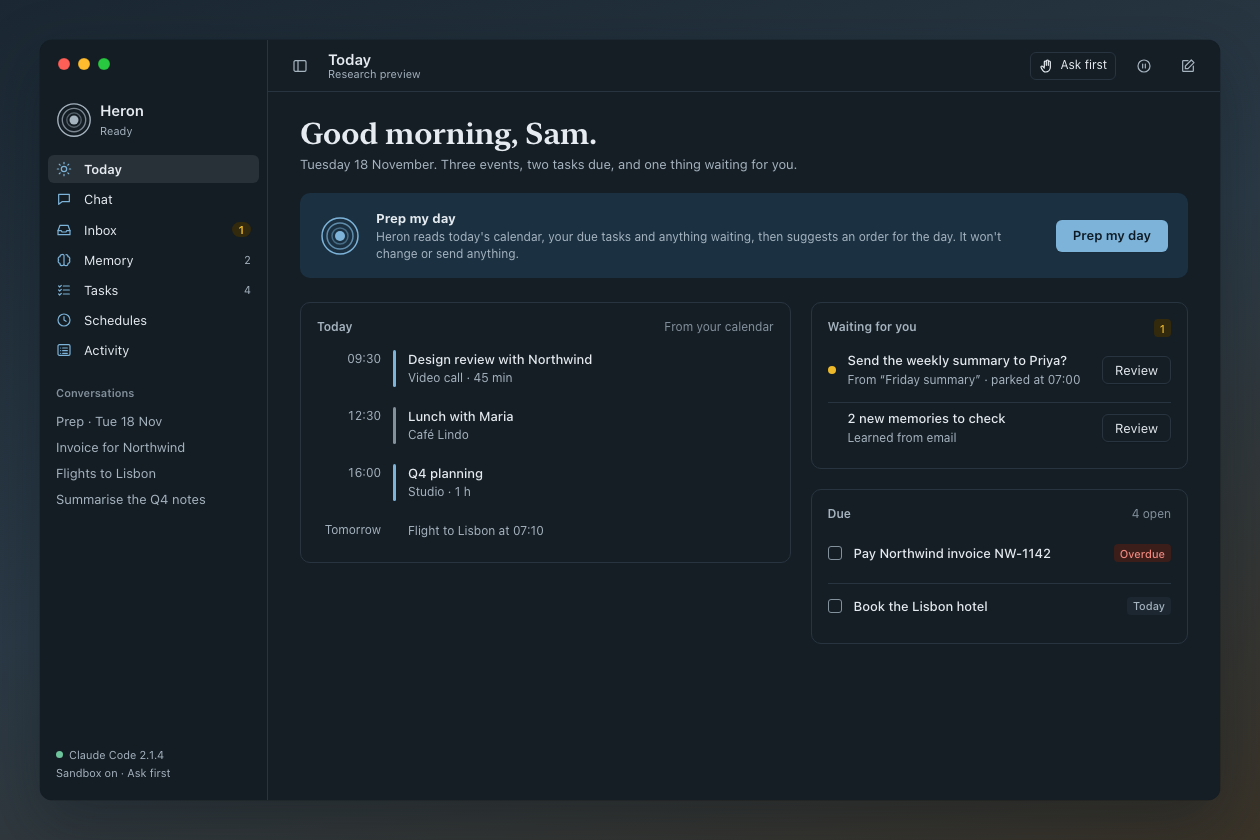
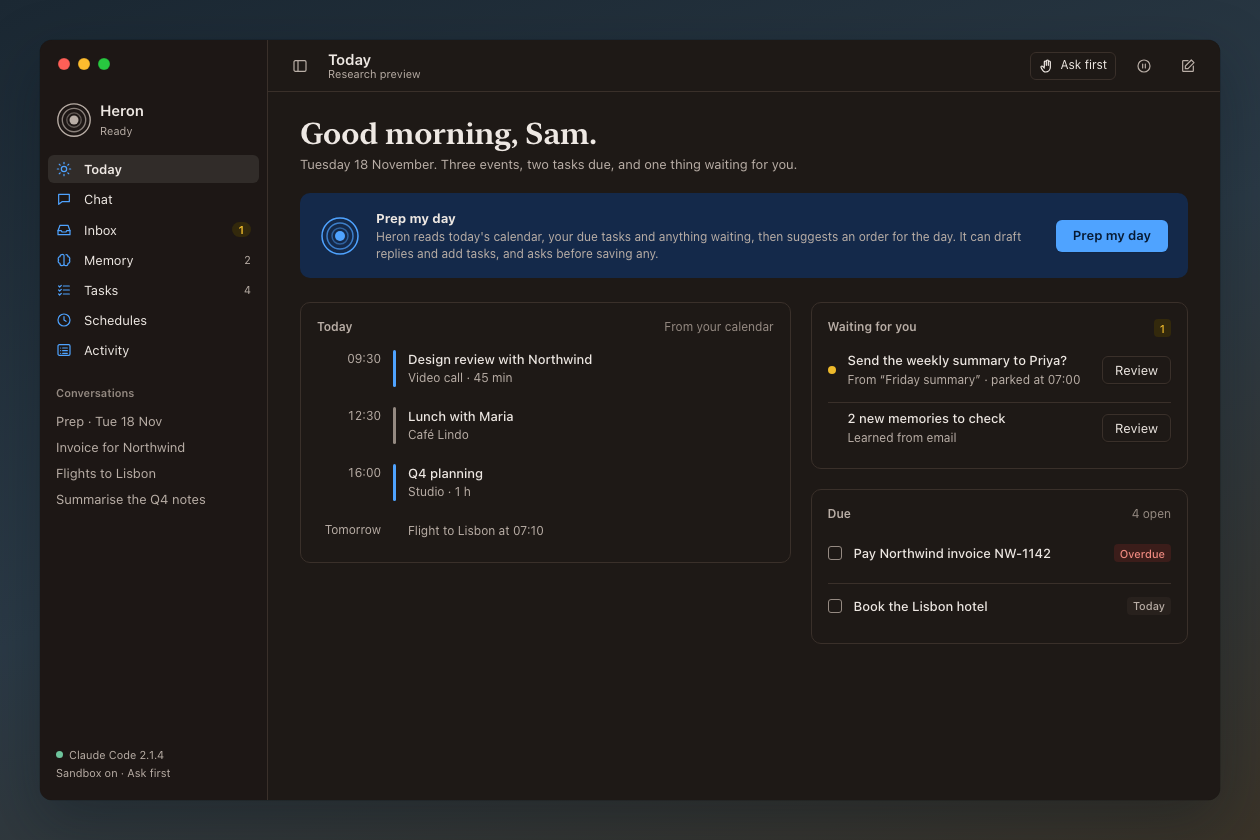
docs(design): record the owner's choices for the heron mac app
Dusk is the default theme and the system accent the default accent,
with slate as the fallback. Prep my day may draft replies and add tasks
behind approvals. Inbox, themes, avatar, menu bar extra and the sandbox
card follow the recommendations. Mockups and screenshots updated.

diff --git a/docs/designs/heron-mac-visual/tokens.css b/docs/designs/heron-mac-visual/tokens.css
@@ -1,19 +1,19 @@
 /* Generated by gen_tokens.py from tokens.json. Do not edit by hand. */
-:root{--window:#F3F6F8;--sidebar:#E9EEF2;--surface:#FFFFFF;--raised:#F0F4F7;--hairline:#D9E1E7;--ink:#15202A;--ink2:#465663;--ink3:#5C6975;--waiting:#7A5500;--waitingSoft:#FBEFCF;--waitingMark:#C98F00;--outside:#5E4B8B;--outsideSoft:#ECE7F5;--danger:#A8261D;--dangerSoft:#FBE3E0;--ok:#24704F;--okSoft:#DFF1E8;}
-@media (prefers-color-scheme: dark){:root:not([data-theme="light"]){--window:#0F161C;--sidebar:#131C23;--surface:#151E25;--raised:#1C2731;--hairline:#283540;--ink:#E5EBF0;--ink2:#A6B4C0;--ink3:#83919D;--waiting:#EDB92B;--waitingSoft:#33290C;--waitingMark:#EDB92B;--outside:#BBA8E6;--outsideSoft:#271F38;--danger:#F08A80;--dangerSoft:#3B1D1A;--ok:#6EC49C;--okSoft:#15301F;color-scheme:dark}}
-:root[data-theme="dark"]{--window:#0F161C;--sidebar:#131C23;--surface:#151E25;--raised:#1C2731;--hairline:#283540;--ink:#E5EBF0;--ink2:#A6B4C0;--ink3:#83919D;--waiting:#EDB92B;--waitingSoft:#33290C;--waitingMark:#EDB92B;--outside:#BBA8E6;--outsideSoft:#271F38;--danger:#F08A80;--dangerSoft:#3B1D1A;--ok:#6EC49C;--okSoft:#15301F;color-scheme:dark}
-:root[data-palette="dusk"]{--window:#F6F3F1;--sidebar:#EEE9E5;--surface:#FFFFFF;--raised:#F4F0EC;--hairline:#E2DBD5;--ink:#221C19;--ink2:#58504A;--ink3:#6A615B;--waiting:#7A5500;--waitingSoft:#FBEFCF;--waitingMark:#C98F00;--outside:#5E4B8B;--outsideSoft:#ECE7F5;--danger:#A8261D;--dangerSoft:#FBE3E0;--ok:#24704F;--okSoft:#DFF1E8;}
-@media (prefers-color-scheme: dark){:root[data-palette="dusk"]:not([data-theme="light"]){--window:#171311;--sidebar:#1C1714;--surface:#1E1916;--raised:#28211D;--hairline:#3A302A;--ink:#EEE8E3;--ink2:#B9AEA6;--ink3:#958A82;--waiting:#EDB92B;--waitingSoft:#33290C;--waitingMark:#EDB92B;--outside:#BBA8E6;--outsideSoft:#271F38;--danger:#F08A80;--dangerSoft:#3B1D1A;--ok:#6EC49C;--okSoft:#15301F;color-scheme:dark}}
-:root[data-palette="dusk"][data-theme="dark"]{--window:#171311;--sidebar:#1C1714;--surface:#1E1916;--raised:#28211D;--hairline:#3A302A;--ink:#EEE8E3;--ink2:#B9AEA6;--ink3:#958A82;--waiting:#EDB92B;--waitingSoft:#33290C;--waitingMark:#EDB92B;--outside:#BBA8E6;--outsideSoft:#271F38;--danger:#F08A80;--dangerSoft:#3B1D1A;--ok:#6EC49C;--okSoft:#15301F;color-scheme:dark}
+:root{--window:#F6F3F1;--sidebar:#EEE9E5;--surface:#FFFFFF;--raised:#F4F0EC;--hairline:#E2DBD5;--ink:#221C19;--ink2:#58504A;--ink3:#6A615B;--waiting:#7A5500;--waitingSoft:#FBEFCF;--waitingMark:#C98F00;--outside:#5E4B8B;--outsideSoft:#ECE7F5;--danger:#A8261D;--dangerSoft:#FBE3E0;--ok:#24704F;--okSoft:#DFF1E8;}
+@media (prefers-color-scheme: dark){:root:not([data-theme="light"]){--window:#171311;--sidebar:#1C1714;--surface:#1E1916;--raised:#28211D;--hairline:#3A302A;--ink:#EEE8E3;--ink2:#B9AEA6;--ink3:#958A82;--waiting:#EDB92B;--waitingSoft:#33290C;--waitingMark:#EDB92B;--outside:#BBA8E6;--outsideSoft:#271F38;--danger:#F08A80;--dangerSoft:#3B1D1A;--ok:#6EC49C;--okSoft:#15301F;color-scheme:dark}}
+:root[data-theme="dark"]{--window:#171311;--sidebar:#1C1714;--surface:#1E1916;--raised:#28211D;--hairline:#3A302A;--ink:#EEE8E3;--ink2:#B9AEA6;--ink3:#958A82;--waiting:#EDB92B;--waitingSoft:#33290C;--waitingMark:#EDB92B;--outside:#BBA8E6;--outsideSoft:#271F38;--danger:#F08A80;--dangerSoft:#3B1D1A;--ok:#6EC49C;--okSoft:#15301F;color-scheme:dark}
+:root[data-palette="shore"]{--window:#F3F6F8;--sidebar:#E9EEF2;--surface:#FFFFFF;--raised:#F0F4F7;--hairline:#D9E1E7;--ink:#15202A;--ink2:#465663;--ink3:#5C6975;--waiting:#7A5500;--waitingSoft:#FBEFCF;--waitingMark:#C98F00;--outside:#5E4B8B;--outsideSoft:#ECE7F5;--danger:#A8261D;--dangerSoft:#FBE3E0;--ok:#24704F;--okSoft:#DFF1E8;}
+@media (prefers-color-scheme: dark){:root[data-palette="shore"]:not([data-theme="light"]){--window:#0F161C;--sidebar:#131C23;--surface:#151E25;--raised:#1C2731;--hairline:#283540;--ink:#E5EBF0;--ink2:#A6B4C0;--ink3:#83919D;--waiting:#EDB92B;--waitingSoft:#33290C;--waitingMark:#EDB92B;--outside:#BBA8E6;--outsideSoft:#271F38;--danger:#F08A80;--dangerSoft:#3B1D1A;--ok:#6EC49C;--okSoft:#15301F;color-scheme:dark}}
+:root[data-palette="shore"][data-theme="dark"]{--window:#0F161C;--sidebar:#131C23;--surface:#151E25;--raised:#1C2731;--hairline:#283540;--ink:#E5EBF0;--ink2:#A6B4C0;--ink3:#83919D;--waiting:#EDB92B;--waitingSoft:#33290C;--waitingMark:#EDB92B;--outside:#BBA8E6;--outsideSoft:#271F38;--danger:#F08A80;--dangerSoft:#3B1D1A;--ok:#6EC49C;--okSoft:#15301F;color-scheme:dark}
 :root[data-palette="graphite"]{--window:#F5F5F5;--sidebar:#ECECEC;--surface:#FFFFFF;--raised:#F2F2F2;--hairline:#DDDDDD;--ink:#1D1D1F;--ink2:#4F4F55;--ink3:#636368;--waiting:#7A5500;--waitingSoft:#FBEFCF;--waitingMark:#C98F00;--outside:#5E4B8B;--outsideSoft:#ECE7F5;--danger:#A8261D;--dangerSoft:#FBE3E0;--ok:#24704F;--okSoft:#DFF1E8;}
 @media (prefers-color-scheme: dark){:root[data-palette="graphite"]:not([data-theme="light"]){--window:#161617;--sidebar:#1C1C1E;--surface:#1E1E20;--raised:#2A2A2D;--hairline:#38383B;--ink:#ECECEE;--ink2:#AEAEB2;--ink3:#98989D;--waiting:#EDB92B;--waitingSoft:#33290C;--waitingMark:#EDB92B;--outside:#BBA8E6;--outsideSoft:#271F38;--danger:#F08A80;--dangerSoft:#3B1D1A;--ok:#6EC49C;--okSoft:#15301F;color-scheme:dark}}
 :root[data-palette="graphite"][data-theme="dark"]{--window:#161617;--sidebar:#1C1C1E;--surface:#1E1E20;--raised:#2A2A2D;--hairline:#38383B;--ink:#ECECEE;--ink2:#AEAEB2;--ink3:#98989D;--waiting:#EDB92B;--waitingSoft:#33290C;--waitingMark:#EDB92B;--outside:#BBA8E6;--outsideSoft:#271F38;--danger:#F08A80;--dangerSoft:#3B1D1A;--ok:#6EC49C;--okSoft:#15301F;color-scheme:dark}
-:root[data-accent="system"]{--accent:#0A64D8;--accentSoft:#E0ECFB;--onAccent:#FFFFFF;}
-@media (prefers-color-scheme: dark){:root[data-accent="system"]:not([data-theme="light"]){--accent:#4FA3FF;--accentSoft:#14294A;--onAccent:#071A33;}}
-:root[data-accent="system"][data-theme="dark"]{--accent:#4FA3FF;--accentSoft:#14294A;--onAccent:#071A33;}
-:root{--accent:#2F6690;--accentSoft:#E2ECF4;--onAccent:#FFFFFF;}
-@media (prefers-color-scheme: dark){:root:not([data-theme="light"]){--accent:#7DB3D8;--accentSoft:#1B3142;--onAccent:#0D1B26;}}
-:root[data-theme="dark"]{--accent:#7DB3D8;--accentSoft:#1B3142;--onAccent:#0D1B26;}
+:root{--accent:#0A64D8;--accentSoft:#E0ECFB;--onAccent:#FFFFFF;}
+@media (prefers-color-scheme: dark){:root:not([data-theme="light"]){--accent:#4FA3FF;--accentSoft:#14294A;--onAccent:#071A33;}}
+:root[data-theme="dark"]{--accent:#4FA3FF;--accentSoft:#14294A;--onAccent:#071A33;}
+:root[data-accent="slate"]{--accent:#2F6690;--accentSoft:#E2ECF4;--onAccent:#FFFFFF;}
+@media (prefers-color-scheme: dark){:root[data-accent="slate"]:not([data-theme="light"]){--accent:#7DB3D8;--accentSoft:#1B3142;--onAccent:#0D1B26;}}
+:root[data-accent="slate"][data-theme="dark"]{--accent:#7DB3D8;--accentSoft:#1B3142;--onAccent:#0D1B26;}
 :root[data-accent="lagoon"]{--accent:#1D6B6B;--accentSoft:#DDEFEE;--onAccent:#FFFFFF;}
 @media (prefers-color-scheme: dark){:root[data-accent="lagoon"]:not([data-theme="light"]){--accent:#6CC3BE;--accentSoft:#16302F;--onAccent:#0A1D1C;}}
 :root[data-accent="lagoon"][data-theme="dark"]{--accent:#6CC3BE;--accentSoft:#16302F;--onAccent:#0A1D1C;}

diff --git a/docs/designs/heron-mac-visual/avatar.html b/docs/designs/heron-mac-visual/avatar.html
@@ -55,11 +55,11 @@
   let h = "<span></span>" + states.map(([, l]) => `<span class="hd">${l}</span>`).join("");
   styles.forEach(([s, l]) => { h += `<span class="st">${l}</span>` + states.map(([st]) => `<span class="cell">${avatar(s, st, 48)}</span>`).join(""); });
   document.getElementById("avgrid").innerHTML = h;
-  const T = { shore: { l: ["#F3F6F8", "#E9EEF2", "#FFFFFF", "#15202A"], d: ["#0F161C", "#131C23", "#151E25", "#E5EBF0"] }, dusk: { l: ["#F6F3F1", "#EEE9E5", "#FFFFFF", "#221C19"], d: ["#171311", "#1C1714", "#1E1916", "#EEE8E3"] }, graphite: { l: ["#F5F5F5", "#ECECEC", "#FFFFFF", "#1D1D1F"], d: ["#161617", "#1C1C1E", "#1E1E20", "#ECECEE"] } };
+  const T = { dusk: { l: ["#F6F3F1", "#EEE9E5", "#FFFFFF", "#221C19"], d: ["#171311", "#1C1714", "#1E1916", "#EEE8E3"] }, shore: { l: ["#F3F6F8", "#E9EEF2", "#FFFFFF", "#15202A"], d: ["#0F161C", "#131C23", "#151E25", "#E5EBF0"] }, graphite: { l: ["#F5F5F5", "#ECECEC", "#FFFFFF", "#1D1D1F"], d: ["#161617", "#1C1C1E", "#1E1E20", "#ECECEE"] } };
   const mini = ([win, sb, sf, ink]) => `<div class="mini" style="background:${win}"><div class="sb" style="background:${sb}"><i style="background:${ink};opacity:.5;width:70%"></i><i style="background:${ink};opacity:.25"></i><i style="background:${ink};opacity:.25;width:80%"></i></div><div class="ct" style="background:${sf}"><i style="background:${ink};opacity:.8;width:55%;height:9px"></i><i style="background:${ink};opacity:.3"></i><i style="background:${ink};opacity:.3;width:85%"></i><i style="background:#2F6690;width:30%;height:12px;border-radius:4px;margin-top:6px"></i></div></div>`;
-  const desc = { shore: "Shore (default): cool, slate-tinted greys from Heron's own palette.", dusk: "Dusk: warm greys for evening light.", graphite: "Graphite: untinted greys, closest to plain macOS." };
+  const desc = { shore: "Shore: cool, slate-tinted greys from Heron's own palette.", dusk: "Dusk (default): warm stone and paper greys.", graphite: "Graphite: untinted greys, closest to plain macOS." };
   document.getElementById("themes").innerHTML = Object.entries(T).map(([k, v]) => `<figure class="tcard" style="margin:0"><div class="two">${mini(v.l)}${mini(v.d)}</div><figcaption>${desc[k]}</figcaption></figure>`).join("");
-  const A = [["slate", "Slate (default)", "#2F6690", "#7DB3D8"], ["system", "System", "#0A64D8", "#4FA3FF"], ["lagoon", "Lagoon", "#1D6B6B", "#6CC3BE"], ["reed", "Reed", "#466E2E", "#9CCB7A"], ["rose", "Rose", "#9C3D62", "#E79AB8"]];
+  const A = [["system", "System (default, follows macOS)", "#0A64D8", "#4FA3FF"], ["slate", "Slate (fallback)", "#2F6690", "#7DB3D8"], ["lagoon", "Lagoon", "#1D6B6B", "#6CC3BE"], ["reed", "Reed", "#466E2E", "#9CCB7A"], ["rose", "Rose", "#9C3D62", "#E79AB8"]];
   document.getElementById("accents").innerHTML = A.map(([k, l, a, b]) => `<div class="acc"><div class="pair"><i style="background:${a}"></i><i style="background:${b}"></i></div><span>${l}</span><span class="faint mono" style="font-size:var(--t-sub)">${a} / ${b}</span></div>`).join("");
 </script>
 </body>

diff --git a/docs/designs/heron-mac-visual/mock.js b/docs/designs/heron-mac-visual/mock.js
@@ -1,6 +1,6 @@
 // Heron Mac app mockups: shared chrome.
-// URL parameters: theme=light|dark, palette=shore|dusk|graphite,
-// accent=system|slate|lagoon|reed|rose, shot=1 (hide the viewer strip), reduce=1 (reduced motion).
+// URL parameters: theme=light|dark, palette=dusk|shore|graphite,
+// accent=system|slate|lagoon|reed|rose (defaults: dusk, system), shot=1 (hide the viewer strip), reduce=1 (reduced motion).
 (function () {
   const q = new URLSearchParams(location.search);
   const root = document.documentElement;
@@ -8,8 +8,8 @@
   const read = (k) => { if (q.get("shot")) return q.get(k); try { return q.get(k) || localStorage.getItem("heron-mock-" + k); } catch (e) { return q.get(k); } };
   const theme = read("theme"), palette = read("palette"), accent = read("accent");
   if (theme === "light" || theme === "dark") root.dataset.theme = theme;
-  if (palette && palette !== "shore") root.dataset.palette = palette;
-  if (accent && accent !== "slate") root.dataset.accent = accent;
+  if (palette && palette !== "dusk") root.dataset.palette = palette;
+  if (accent && accent !== "system") root.dataset.accent = accent;
   if (q.get("shot")) root.classList.add("shot");
   if (q.get("reduce")) root.classList.add("reduce");
 
@@ -112,14 +112,14 @@
     const strip = document.createElement("div");
     strip.className = "viewer";
     strip.innerHTML = `<b>Heron for Mac</b>${pages.map(([p, l]) => `<a href="${p}.html" ${p === here ? 'aria-current="page"' : ""}>${l}</a>`).join("")}<span class="grow"></span>
-      ${sel("theme", ["system", "light", "dark"], theme || "system")}${sel("palette", ["shore", "dusk", "graphite"], palette || "shore")}${sel("accent", ["slate", "system", "lagoon", "reed", "rose"], accent || "slate")}`;
+      ${sel("theme", ["system", "light", "dark"], theme || "system")}${sel("palette", ["dusk", "shore", "graphite"], palette || "dusk")}${sel("accent", ["system", "slate", "lagoon", "reed", "rose"], accent || "system")}`;
     document.body.prepend(strip);
     strip.querySelectorAll("select").forEach((s) => s.addEventListener("change", () => {
       const k = s.dataset.k, v = s.value;
       try { localStorage.setItem("heron-mock-" + k, v); } catch (e) {}
       const map = { theme: "theme", palette: "palette", accent: "accent" };
       if (k === "theme") { if (v === "system") delete root.dataset.theme; else root.dataset.theme = v; }
-      else if ((k === "palette" && v === "shore") || (k === "accent" && v === "slate")) delete root.dataset[map[k]];
+      else if ((k === "palette" && v === "dusk") || (k === "accent" && v === "system")) delete root.dataset[map[k]];
       else root.dataset[map[k]] = v;
     }));
   });

diff --git a/docs/designs/heron-mac-visual/first-run.html b/docs/designs/heron-mac-visual/first-run.html
@@ -105,13 +105,13 @@
           <div><div class="sec-h" style="margin-top:0">Avatar</div><div class="pick" id="pick"></div></div>
           <div><div class="sec-h" style="margin-top:0">Theme</div>
             <div class="theme-sw">
-              <div aria-checked="true"><div class="pv"><i style="background:#E9EEF2"></i><i style="background:#FFFFFF"></i></div><span>Shore</span></div>
-              <div><div class="pv"><i style="background:#EEE9E5"></i><i style="background:#FFFFFF"></i></div><span>Dusk</span></div>
+              <div aria-checked="true"><div class="pv"><i style="background:#EEE9E5"></i><i style="background:#FFFFFF"></i></div><span>Dusk</span></div>
+              <div><div class="pv"><i style="background:#E9EEF2"></i><i style="background:#FFFFFF"></i></div><span>Shore</span></div>
               <div><div class="pv"><i style="background:#ECECEC"></i><i style="background:#FFFFFF"></i></div><span>Graphite</span></div>
             </div>
           </div>
           <div><div class="sec-h" style="margin-top:0">Accent colour</div>
-            <div class="sw" role="radiogroup" aria-label="Accent colour"><i aria-checked="true" title="Slate" style="background:#2F6690"></i><i title="System" style="background:conic-gradient(#0A64D8,#9C3D62,#C98F00,#466E2E,#0A64D8)"></i><i title="Lagoon" style="background:#1D6B6B"></i><i title="Reed" style="background:#466E2E"></i><i title="Rose" style="background:#9C3D62"></i><span class="muted" style="margin-left:var(--s2)">Slate</span></div>
+            <div class="sw" role="radiogroup" aria-label="Accent colour"><i aria-checked="true" title="System" style="background:conic-gradient(#0A64D8,#9C3D62,#C98F00,#466E2E,#0A64D8)"></i><i title="Slate" style="background:#2F6690"></i><i title="Lagoon" style="background:#1D6B6B"></i><i title="Reed" style="background:#466E2E"></i><i title="Rose" style="background:#9C3D62"></i><span class="muted" style="margin-left:var(--s2)">System (follows macOS)</span></div>
           </div>
         </div>
       </div>

diff --git a/docs/designs/heron-mac-visual/settings.html b/docs/designs/heron-mac-visual/settings.html
@@ -65,8 +65,8 @@
       <div class="pane" id="p-appearance">
         <div class="form-sec"><h3>Avatar</h3><div class="group kv"><div class="row"><div class="t" style="display:flex;gap:var(--s3);align-items:center"><span id="ap-av"></span><div><b>Ripple</b><span>Ripple, Heron, Letter or your picture</span></div></div><span class="field">Ripple ▾</span></div></div></div>
         <div class="form-sec"><h3>Look</h3><div class="group kv">
-          <div class="row"><div class="t"><b>Theme</b></div><span class="field">Shore ▾</span></div>
-          <div class="row"><div class="t"><b>Accent colour</b></div><span class="field">Slate ▾</span></div>
+          <div class="row"><div class="t"><b>Theme</b></div><span class="field">Dusk ▾</span></div>
+          <div class="row"><div class="t"><b>Accent colour</b></div><span class="field">System ▾</span></div>
           <div class="row"><div class="t"><b>Appearance</b><span>Follows macOS unless you choose</span></div><div class="seg"><span aria-selected="true">System</span><span>Light</span><span>Dark</span></div></div>
           <div class="row"><div class="t"><b>Text size</b><span>Chat and reading text. ⌘+ and ⌘− also work in a conversation.</span></div><div class="seg"><span>S</span><span aria-selected="true">M</span><span>L</span><span>XL</span></div></div>
         </div></div>

diff --git a/docs/designs/heron-mac-visual/index.html b/docs/designs/heron-mac-visual/index.html
@@ -2,7 +2,7 @@
 <meta name="claude:viewport-fit-sides" content="cover">
 <link rel="stylesheet" href="tokens.css">
 <style>
-  /* Index of the Heron Mac mockups. Colours come from tokens.css (Shore theme, slate accent). */
+  /* Index of the Heron Mac mockups. Colours come from tokens.css (Dusk theme, system accent: the owner's defaults). */
   :root { --font-ui: system-ui, -apple-system, "Helvetica Neue", sans-serif; --font-display: ui-serif, "New York", Georgia, serif; }
   * { box-sizing: border-box; }
   body { margin: 0; background: var(--window); color: var(--ink); font-family: var(--font-ui); font-size: 15px; line-height: 1.5; }

diff --git a/docs/designs/heron-mac-visual/today.html b/docs/designs/heron-mac-visual/today.html
@@ -26,7 +26,7 @@
 
           <div class="prep">
             <div id="av"></div>
-            <div><b>Prep my day</b><p>Heron reads today's calendar, your due tasks and anything waiting, then suggests an order for the day. It won't change or send anything.</p></div>
+            <div><b>Prep my day</b><p>Heron reads today's calendar, your due tasks and anything waiting, then suggests an order for the day. It can draft replies and add tasks, and asks before saving any.</p></div>
             <button class="btn lg primary">Prep my day</button>
           </div>
 

diff --git a/docs/designs/heron-mac-visual/gen_tokens.py b/docs/designs/heron-mac-visual/gen_tokens.py
@@ -37,14 +37,15 @@ def accent(a, mode):
     av = t["accents"][a]
     return f"--accent:{av[mode]};--accentSoft:{av[mode + 'Soft']};--onAccent:{av['onLight' if mode == 'light' else 'onDark']};"
 
+order = lambda d, k: sorted(d, key=lambda x: x != t["defaults"][k])
 out = ["/* Generated by gen_tokens.py from tokens.json. Do not edit by hand. */"]
-for th in t["themes"]:
-    sel = ":root" if th == "shore" else f':root[data-palette="{th}"]'
+for th in order(t["themes"], "theme"):
+    sel = ":root" if th == t["defaults"]["theme"] else f':root[data-palette="{th}"]'
     out.append(f"{sel}{{{block(th,'light')}}}")
     out.append(f'@media (prefers-color-scheme: dark){{{sel}:not([data-theme="light"]){{{block(th,"dark")}color-scheme:dark}}}}')
     out.append(f'{sel}[data-theme="dark"]{{{block(th,"dark")}color-scheme:dark}}')
-for a in t["accents"]:
-    sel = ":root" if a == "slate" else f':root[data-accent="{a}"]'
+for a in order(t["accents"], "accentColor"):
+    sel = ":root" if a == t["defaults"]["accentColor"] else f':root[data-accent="{a}"]'
     out.append(f"{sel}{{{accent(a,'light')}}}")
     out.append(f'@media (prefers-color-scheme: dark){{{sel}:not([data-theme="light"]){{{accent(a,"dark")}}}}}')
     out.append(f'{sel}[data-theme="dark"]{{{accent(a,"dark")}}}')

diff --git a/docs/designs/heron-mac-visual.md b/docs/designs/heron-mac-visual.md
@@ -1,6 +1,6 @@
 # Heron for Mac: visual direction
 
-*   **Status:** Draft, waiting for the owner's approval of the choices in [Decisions](#decisions).
+*   **Status:** Approved by the owner on 2026-11-18. Their answers are in [Decisions](#decisions).
 *   **Date:** 2026-11-18
 *   **Supplements:** [`heron-v1.md`](heron-v1.md) §4 and work unit U4, as read at commit `cba31ab`. It adds no work units and changes no rule in that doc.
 *   **Mockups:** [`heron-mac-visual/`](heron-mac-visual/index.html), static HTML. Open `index.html` in a browser. Screenshots are in `heron-mac-visual/shots/`.
@@ -61,8 +61,8 @@ Each theme defines eight neutral roles in light and dark. Accent and status colo
 | `ink2` | `#465663` | `#A6B4C0` | `#58504A` | `#B9AEA6` | `#4F4F55` | `#AEAEB2` |
 | `ink3` | `#5C6975` | `#83919D` | `#6A615B` | `#958A82` | `#636368` | `#98989D` |
 
-*   **Shore** (default): a cool blue-grey, like water at first light. It suits a heron and stays neutral next to other Mac apps.
-*   **Dusk:** warm stone and paper. For people who find cool greys clinical.
+*   **Dusk** (default, owner's choice D1): warm stone and paper. Calm and personal without the clinical feel of cool greys.
+*   **Shore:** a cool blue-grey, like water at first light. It stays neutral next to other Mac apps.
 *   **Graphite:** pure neutral greys, closest to stock macOS.
 
 #### Accent colours
@@ -71,13 +71,13 @@ The accent marks selection, primary buttons, links, sidebar icons and the avatar
 
 | `accentColor` | Light | Dark | Light soft | Dark soft | On light | On dark |
 |---|---|---|---|---|---|---|
-| `slate` (default) | `#2F6690` | `#7DB3D8` | `#E2ECF4` | `#1B3142` | `#FFFFFF` | `#0D1B26` |
-| `system` | `#0A64D8` | `#4FA3FF` | `#E0ECFB` | `#14294A` | `#FFFFFF` | `#071A33` |
+| `slate` | `#2F6690` | `#7DB3D8` | `#E2ECF4` | `#1B3142` | `#FFFFFF` | `#0D1B26` |
+| `system` (default) | `#0A64D8` | `#4FA3FF` | `#E0ECFB` | `#14294A` | `#FFFFFF` | `#071A33` |
 | `lagoon` | `#1D6B6B` | `#6CC3BE` | `#DDEFEE` | `#16302F` | `#FFFFFF` | `#0A1D1C` |
 | `reed` | `#466E2E` | `#9CCB7A` | `#E6EFDD` | `#1F2E16` | `#FFFFFF` | `#122009` |
 | `rose` | `#9C3D62` | `#E79AB8` | `#F5E1E9` | `#3A1B28` | `#FFFFFF` | `#2A0E19` |
 
-`system` uses `Color.accentColor`, so it follows the accent in System Settings. The hex values above are what the mockups show for the default blue.
+`system` is the default (owner's choice D4). It uses `Color.accentColor`, so it follows the accent in System Settings. The hex values above are what the mockups show for the default blue. If the user's system accent is graphite, gold or purple, the app uses `slate` instead, so the accent never reads as "waiting" or "outside content" and selection stays visible.
 
 #### Status colours (all themes)
 
@@ -214,11 +214,11 @@ U4's store list (Chat, Approvals, Today, Memory, Tasks, Schedules, Activity, Set
 | Suggestions | `GET /api/suggestions`, `POST /api/suggestions/{id}` | What Heron noticed and offers to do |
 | Delivered | `GET /api/inbox`, `POST /api/inbox/read` | Schedule results, briefings, reminders |
 
-The core already serves both routes (the Slint app calls them from `src/bin/desktop/views_bridge.rs`). Using them adds an Inbox store and two route models to U4. The smaller option is to call the destination "Approvals" and show only the feed in v1. That is a [decision](#decisions) for the owner.
+The core already serves both routes (the Slint app calls them from `src/bin/desktop/views_bridge.rs`). Using them adds an Inbox store and two route models to U4. The owner chose the full Inbox (D2), so U4 adds the Inbox store and the two route models.
 
 ### Themes
 
-`theme` is one of `"shore"` (default), `"dusk"`, `"graphite"`. Light and dark follow macOS unless the user picks one in Settings › Appearance; that is a separate `appearance` value: `"system"` (default), `"light"`, `"dark"`. Three themes are enough to feel personal, and each is fully specified and contrast-checked above. More themes can come later from the same token file.
+`theme` is one of `"dusk"` (default), `"shore"`, `"graphite"`. Light and dark follow macOS unless the user picks one in Settings › Appearance; that is a separate `appearance` value: `"system"` (default), `"light"`, `"dark"`. Three themes are enough to feel personal, and each is fully specified and contrast-checked above. More themes can come later from the same token file.
 
 ### `avatarStyle`
 
@@ -235,15 +235,15 @@ Every style is drawn with SwiftUI shapes (`Circle`, `Path`, `Text`). There are n
 
 ### `accentColor`
 
-`accentColor` is one of `"slate"` (default), `"system"`, `"lagoon"`, `"reed"`, `"rose"`. Slate is the default because it pairs with Shore and isn't the stock blue, so Heron looks like itself. No accent is gold or violet, because those two are reserved for "waiting for you" and "outside content".
+`accentColor` is one of `"system"` (default), `"slate"`, `"lagoon"`, `"reed"`, `"rose"`. The owner chose `system` so Heron matches the rest of their Mac; `slate` is the fallback described under Accent colours. No named accent is gold or violet, because those two are reserved for "waiting for you" and "outside content".
 
 ### "Prep my day"
 
 The button on Today (and in the menu bar extra) starts a new conversation titled "Prep · Tue 18 Nov" and sends:
 
-> Prep my day. Look at today's calendar, my open and overdue tasks, and anything waiting for me in the inbox. Then give me: the three things that matter most today and why, a suggested order for the day around my events, and anything I should prepare before a meeting. Keep it short. Don't change, send or schedule anything; if something needs doing, ask me first.
+> Prep my day. Look at today's calendar, my open and overdue tasks, and anything waiting for me in the inbox. Then give me: the three things that matter most today and why, a suggested order for the day around my events, and anything I should prepare before a meeting. Keep it short. Where it would help, draft replies to emails that need one and add tasks for things I should do, but ask me before saving any of them. Never send, delete or schedule anything.
 
-**Why:** it names the three sources Today already shows, asks for a short ranked answer instead of a dump, and says up front that it acts on nothing. In Ask first mode only reads run, so it never triggers an approval. The calendar part is answered by the `upcoming_events` tool, so the prompt doesn't need to carry calendar text.
+**Why:** it names the three sources Today already shows and asks for a short ranked answer instead of a dump. The owner chose to let it also draft replies and add tasks (D6). Each draft or task is a write, so in Ask first mode it reaches the user as an approval sheet; sending stays out of scope. The calendar part is answered by the `upcoming_events` tool, so the prompt doesn't need to carry calendar text.
 
 ### The menu bar extra
 
@@ -314,8 +314,10 @@ Below: "Check again" (re-reads `/api/providers`) and "Use an API key instead".
 
 ![Today](heron-mac-visual/shots/today-light.png)
 
+![Today, Shore theme with the Slate accent](heron-mac-visual/shots/today-shore-slate.png)
+
 *   **Greeting:** "Good morning, Sam." (`large`, serif), then "Tuesday 18 November. Three events, two tasks due, and one thing waiting for you." The summary sentence is built from counts in `/api/today`, never from the model.
-*   **Prep my day card:** the avatar, "Prep my day", the line "Heron reads today's calendar, your due tasks and anything waiting, then suggests an order for the day. It won't change or send anything.", and the primary button.
+*   **Prep my day card:** the avatar, "Prep my day", the line "Heron reads today's calendar, your due tasks and anything waiting, then suggests an order for the day. It can draft replies and add tasks, and asks before saving any.", and the primary button.
 *   **Two columns:** Today's events (time, title, place) on the left. "Waiting for you" and "Due" panels on the right, each row with one action.
 *   **Banners** sit above the content, full width:
     *   another Heron (`background_owner: false`): "Another Heron is running your schedules and phone connection. This window still works as usual." with Learn more;
@@ -483,24 +485,24 @@ Errors in a reply appear inline under the reply as a `dangerSoft` card with the 
 
 ## Decisions
 
-Recommendations first. The owner's answers are recorded here before U4 starts.
+Recommendations first. The owner answered all eight on 2026-11-18; the doc body and mockups already follow these answers.
 
 | # | Choice | Recommendation | Alternatives | Owner's answer |
 |---|---|---|---|---|
-| D1 | Overall direction | Calm, native, Shore + Slate, serif only for display | — | Pending |
-| D2 | Inbox scope | One Inbox: parked approvals, suggestions and delivered results | Approvals feed only, named "Approvals" | Pending |
-| D3 | Themes | Shore (default), Dusk, Graphite | Shore only in v1 | Pending |
-| D4 | Default accent | `slate` | `system` | Pending |
-| D5 | Default avatar | `ripple` | `heron` | Pending |
-| D6 | "Prep my day" prompt | As written above, acts on nothing | Let it also draft replies and tasks, with approvals | Pending |
-| D7 | Menu bar extra | Status, waiting items, next event, actions | Status and Open Heron only | Pending |
-| D8 | Sandbox on first run | Status card above the risk text | Inline sentence in the risk text heading | Pending |
+| D1 | Overall direction | Calm, native, Shore + Slate, serif only for display | — | **Approved, warmer by default:** Dusk is the default theme |
+| D2 | Inbox scope | One Inbox: parked approvals, suggestions and delivered results | Approvals feed only, named "Approvals" | **One Inbox** (recommended) |
+| D3 | Themes | Shore (default), Dusk, Graphite | Shore only in v1 | **Shore, Dusk, Graphite**, with Dusk the default (D1) |
+| D4 | Default accent | `slate` | `system` | **`system`**, with `slate` as the fallback |
+| D5 | Default avatar | `ripple` | `heron` | **`ripple`** (recommended) |
+| D6 | "Prep my day" prompt | A read-only brief that acts on nothing | Let it also draft replies and tasks, with approvals | **Brief + drafts:** prompt above updated |
+| D7 | Menu bar extra | Status, waiting items, next event, actions | Status and Open Heron only | **Full panel** (recommended) |
+| D8 | Sandbox on first run | Status card above the risk text | Inline sentence in the risk text heading | **Status card** (recommended) |
 
 ## Verification
 
 This doc changes no code, so the checks are visual and are done by U4:
 
-*   U4's snapshot tests for the risk notice and the approval sheet compare against the layouts in this doc, in light and dark, Shore theme, Slate accent.
+*   U4's snapshot tests for the risk notice and the approval sheet compare against the layouts in this doc, in light and dark, Dusk theme, `system` accent (rendered as the default blue).
 *   `tokens.json` is the only source of colour values. A test in `HeronUITests` checks the Swift theme values against it, and re-runs the contrast table (all text ≥ 4.5:1).
 *   The owner reviews U4's screenshots against the mockups in the second pull request, under Q7.
 
